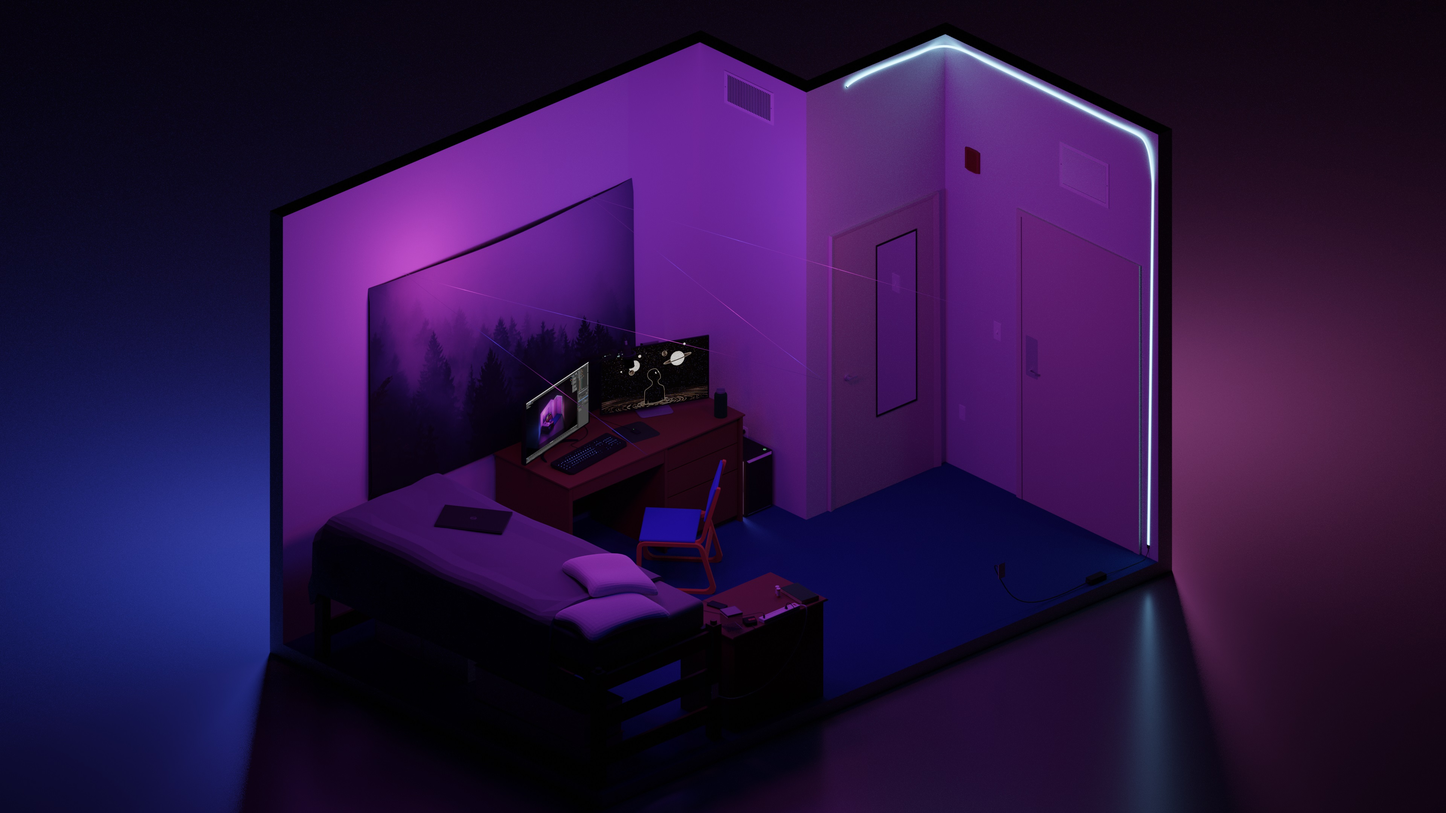
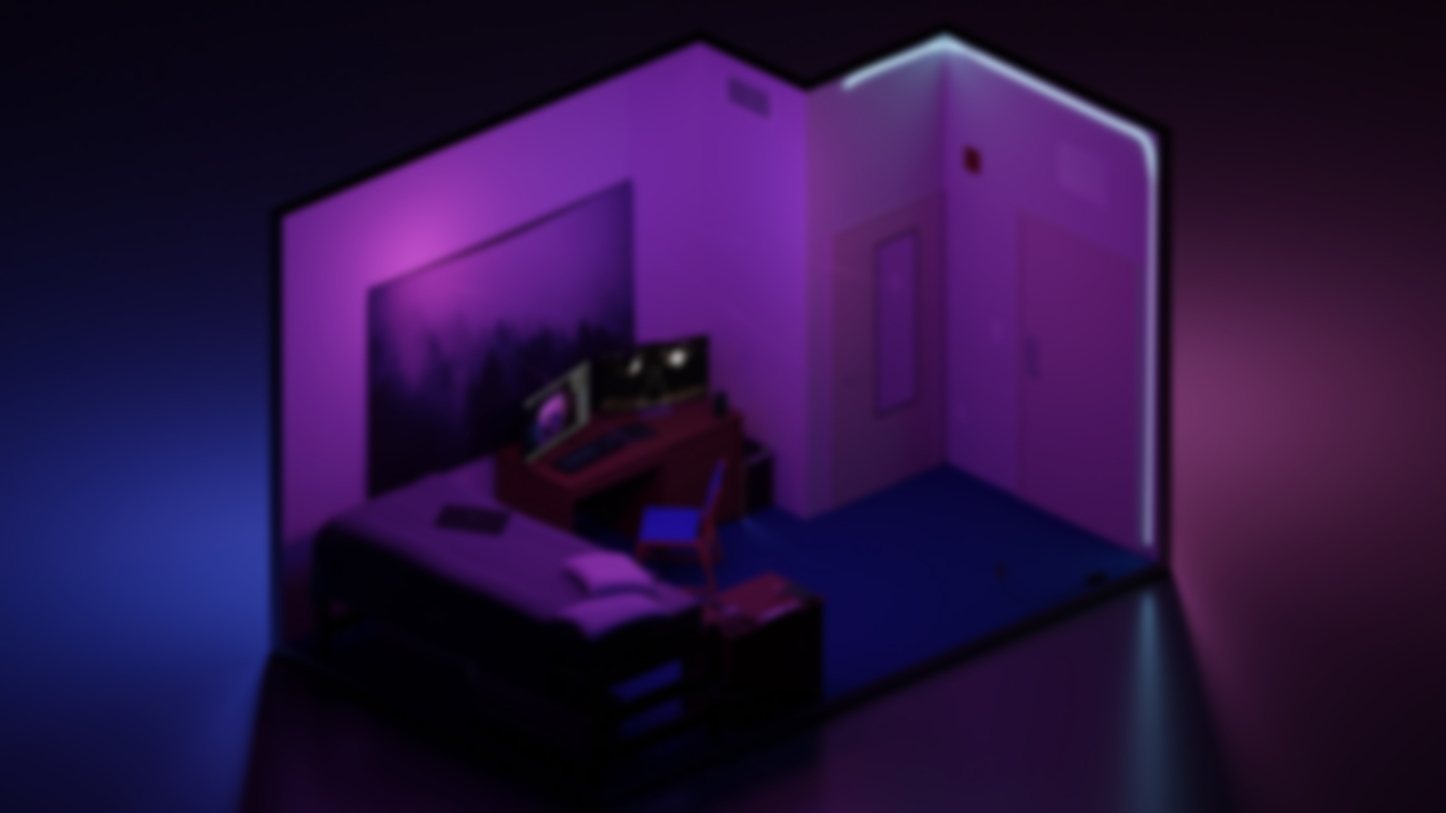
Move blur to image for optimization

diff --git a/choheron.github.io/src/css/homepage.css b/choheron.github.io/src/css/homepage.css
@@ -20,7 +20,6 @@ body {
     margin: 0;
 
     background-image: url("../images/backgroundMain.jpg");
-    backdrop-filter: blur(10px);
     background-repeat: no-repeat;
     background-size: cover;
     background-attachment: fixed;
@@ -104,7 +103,6 @@ body {
         margin: 0;
 
         background-image: url("../images/backgroundMobile.png");
-        backdrop-filter: blur(10px);
         background-repeat: no-repeat;
         background-size: cover;
         background-attachment: fixed;
